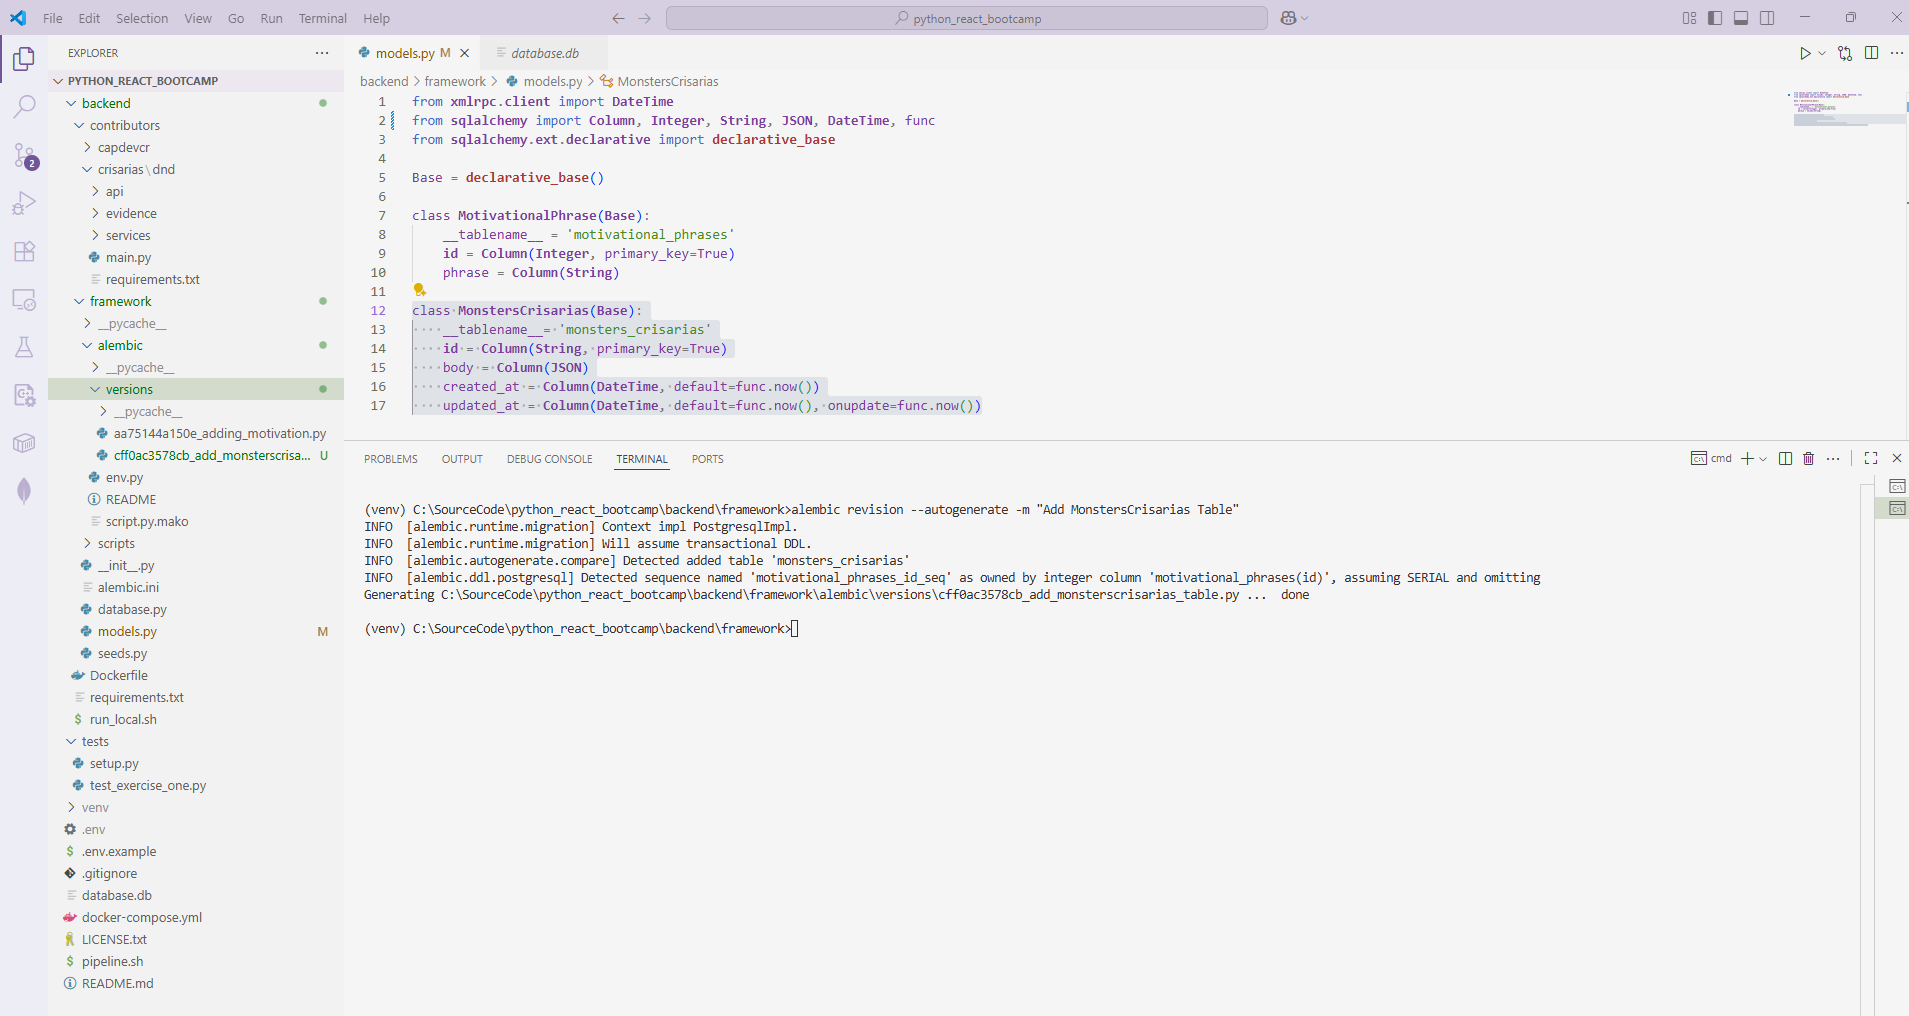
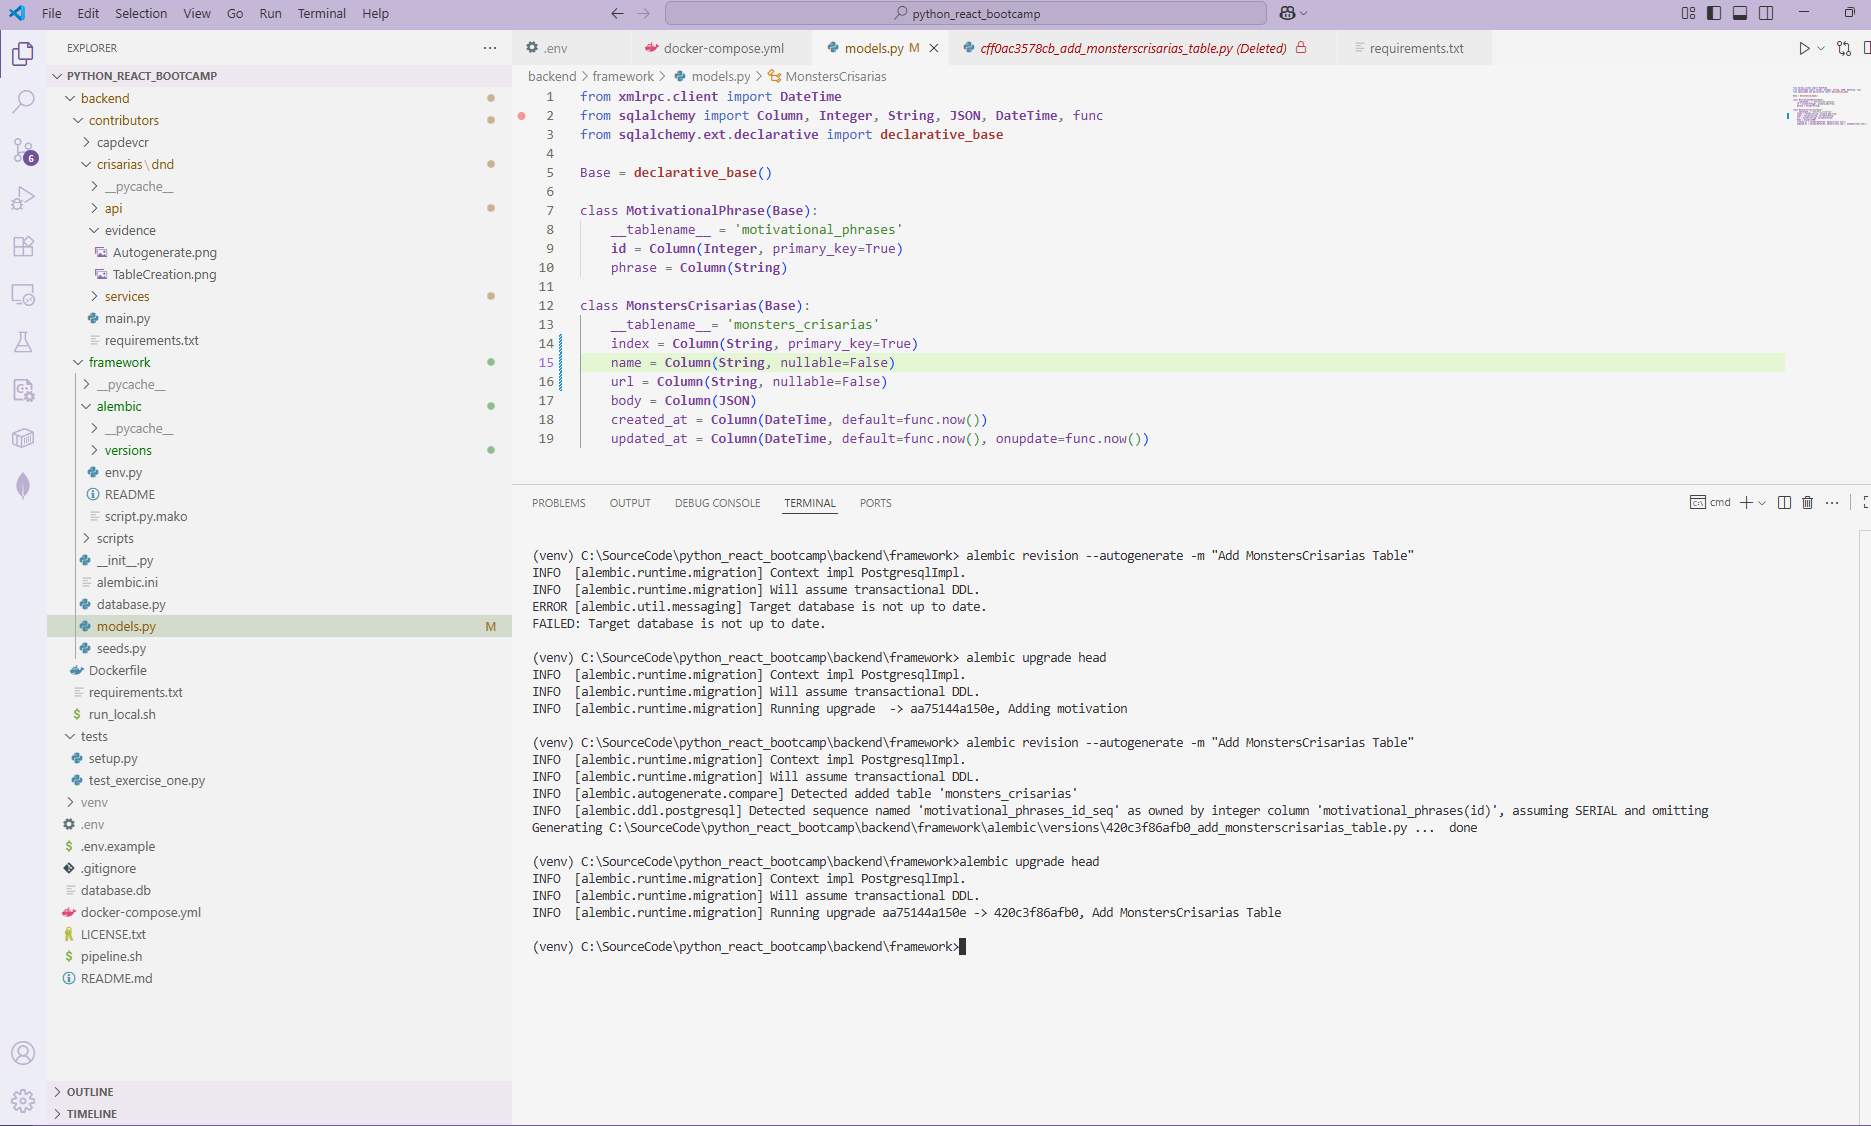
Add migration file with new schema

Changed region(s): [[0.0, 0.0, 1.0, 1.0], [0.868, 0.4272, 1.0, 0.5187], [0.992, 0.9764, 1.0, 1.0]]

diff --git a/backend/contributors/crisarias/dnd/services/caching.py b/backend/contributors/crisarias/dnd/services/caching.py
@@ -10,9 +10,9 @@ def insertCachedResources(model, resources):
     try:
         session = get_session()
         # Get all existing ids in one query for efficiency
-        resource_ids = [resource["id"] for resource in resources]
-        existing_ids = set(r[0] for r in session.query(model.id).filter(model.id.in_(resource_ids)).all())
-        new_resources = [resource for resource in resources if resource["id"] not in existing_ids]
+        resource_ids = [resource["index"] for resource in resources]
+        existing_ids = set(r[0] for r in session.query(model.index).filter(model.index.in_(resource_ids)).all())
+        new_resources = [resource for resource in resources if resource["index"] not in existing_ids]
         for resource in new_resources:
             session.add(model(**resource))
         session.commit()
@@ -23,38 +23,38 @@ def insertCachedResources(model, resources):
 def getCachedResources(model):
     try:
         session = get_session()
-        resources = session.query(model.id).all()
+        resources = session.query(model.index, model.name, model.url).all()
         logger.info(f"Retrieved {len(resources)} cached resources for model {model.__name__}")
-        # Return only id and empty body
-        return [{"id": r[0], "body": {}} for r in resources]
+        # Return only index and empty body
+        return resources
     except Exception as e:
         logger.error(f"Error retrieving cached resources for model {model.__name__}: {e}")
 
-def insertCachedResource(model, id, body):
+def upsertCachedResource(model, index, resource):
     try:
         session = get_session()
-        resource = session.query(model).filter(model.id == id).first()
+        resource = session.query(model).filter(model.index == index).first()
         if resource:
             # Update the body with the provided body dict
-            resource.body = body
-            logger.info(f"Updated cached resource for model {model.__name__} with id {id}")
+            resource.body = resource
+            logger.info(f"Updated cached resource for model {model.__name__} with index {index}")
         else:
             # Insert new resource
-            resource = model(id=id, body=body)
+            resource = model(index=resource.index, name=resource.name, url=resource.url, body=resource)
             session.add(resource)
-            logger.info(f"Inserted cached resource for model {model.__name__} with id {id}")
+            logger.info(f"Inserted cached resource for model {model.__name__} with index {index}")
         session.commit()
     except Exception as e:
-        logger.error(f"Error inserting cached resource for model {model.__name__} with id {id}: {e}")
+        logger.error(f"Error inserting cached resource for model {model.__name__} with index {index}: {e}")
 
-def getCachedResourceById(model, id):
+def getCachedResourceByIndex(model, index):
     try:
         session = get_session()
-        resource = session.query(model).filter(model.id == id).first()
+        resource = session.query(model.body).filter(model.index == index).first()
         if resource:
-            logger.info(f"Retrieved cached resource for model {model.__name__} with id {id}")
+            logger.info(f"Retrieved cached resource for model {model.__name__} with index {index}")
         else:
-            logger.warning(f"Cache miss for model {model.__name__} with id {id}")
+            logger.warning(f"Cache miss for model {model.__name__} with index {index}")
         return resource
     except Exception as e:
-        logger.error(f"Error retrieving cached resource for model {model.__name__} with id {id}: {e}")
+        logger.error(f"Error retrieving cached resource for model {model.__name__} with index {index}: {e}")

diff --git a/backend/contributors/crisarias/dnd/api/monsters/schemas.py b/backend/contributors/crisarias/dnd/api/monsters/schemas.py
@@ -1,31 +1,36 @@
+from services.telemetry import setupLogger
 from marshmallow import Schema, fields, ValidationError, validates
 
+logger = setupLogger()
+
 class MonstersCrisariasSchema(Schema):
-    id = fields.Str(required=True)
-    body = fields.Dict(required=True)
+    index = fields.Str(required=True)
+    name = fields.Str(required=True)
+    url = fields.Str(required=True)
 
-    @validates('id')
-    def validate_id(self, value):
-        if not value.strip():
-            raise ValidationError("ID must not be empty or whitespace.")
+    # @validates('id')
+    # def validate_id(self, value):
+    #     if not value.strip():
+    #         raise ValidationError("ID must not be empty or whitespace.")
 
-    @validates('body')
-    def validate_body(self, value):
-        if not isinstance(value, dict):
-            raise ValidationError("Body must be a valid JSON object.")
+    # @validates('body')
+    # def validate_body(self, value):
+    #     if not isinstance(value, dict):
+    #         raise ValidationError("Body must be a valid JSON object.")
         
 class ListMonstersSchema(Schema):
     resource = fields.Str(required=True)
 
-    @validates('resource')
-    def validate_resource(self, value):
-        if value != "monsters":
-            raise ValidationError("Resource type not supportted.")
+    # @validates('resource')
+    # def validate_resource(self, value):
+    #     logger.info(f"Validating resource: {value}")
+    #     if value != "monsters":
+    #         raise ValidationError("Resource type not supportted.")
         
 class GetMonsterSchema(Schema):
-    monster_index = fields.Int(required=True)
+    monster_index = fields.Str(required=True)
 
-    @validates('monster_index')
-    def validate_index(self, value):
-        if value < 0:
-            raise ValidationError("monster_index must be a non-negative integer")
+    # @validates('monster_index')
+    # def validate_index(self, value):
+    #     if value < 0:
+    #         raise ValidationError("monster_index must be a non-negative integer")

diff --git a/backend/contributors/crisarias/dnd/api/monsters/api.py b/backend/contributors/crisarias/dnd/api/monsters/api.py
@@ -1,6 +1,6 @@
 from services.telemetry import setupLogger
 from marshmallow import ValidationError
-from .schemas import GetMonsterSchema, ListMonstersSchema
+from .schemas import GetMonsterSchema, ListMonstersSchema, MonstersCrisariasSchema
 import os
 import sys
 sys.path.append(os.path.abspath(os.path.join(os.path.dirname(__file__), '../../../../../framework')))
@@ -17,7 +17,7 @@ def getMonster(request):
         validated = GetMonsterSchema().load(data)
         monster_id = validated["monster_index"]
         cachingResponse = getCachedResourceById(MonstersCrisarias, monster_id)
-        if cachingResponse is None or getattr(cachingResponse, "body", {}) == {}:
+        if cachingResponse is None or cachingResponse == {}:
             logger.info(f"Cache miss for monster_id {monster_id}")
             data, code = getMonsterById(monster_id)
             if code != 200:
@@ -38,10 +38,11 @@ def getMonster(request):
 def listMonsters(request):
     try:
         data = request.get_json()
+        logger.info(f"Received listMonsters request data: {data}")
         ListMonstersSchema().load(data)
         cachingResponse = getCachedResources(MonstersCrisarias)
-        if cachingResponse is None or getattr(cachingResponse, "body", {}) == {}:
-            logger.info(f"Cache miss for monster_id {monster_id}")
+        if cachingResponse is None or len(cachingResponse) == 0:
+            logger.info(f"Cache miss for monsters list")
             data, code = getMonsters()
             if code != 200:
                 raise ConnectionError(f"Cannot fetch monsters upstream service unavailable")

diff --git a/backend/framework/alembic/versions/420c3f86afb0_add_monsterscrisarias_table.py b/backend/framework/alembic/versions/420c3f86afb0_add_monsterscrisarias_table.py
@@ -1,8 +1,8 @@
 """Add MonstersCrisarias Table
 
-Revision ID: cff0ac3578cb
+Revision ID: 420c3f86afb0
 Revises: aa75144a150e
-Create Date: 2025-08-25 15:20:28.769803
+Create Date: 2025-08-25 17:41:23.264190
 
 """
 from typing import Sequence, Union
@@ -12,7 +12,7 @@ import sqlalchemy as sa
 
 
 # revision identifiers, used by Alembic.
-revision: str = 'cff0ac3578cb'
+revision: str = '420c3f86afb0'
 down_revision: Union[str, Sequence[str], None] = 'aa75144a150e'
 branch_labels: Union[str, Sequence[str], None] = None
 depends_on: Union[str, Sequence[str], None] = None
@@ -22,11 +22,13 @@ def upgrade() -> None:
     """Upgrade schema."""
     # ### commands auto generated by Alembic - please adjust! ###
     op.create_table('monsters_crisarias',
-    sa.Column('id', sa.String(), nullable=False),
+    sa.Column('index', sa.String(), nullable=False),
+    sa.Column('name', sa.String(), nullable=False),
+    sa.Column('url', sa.String(), nullable=False),
     sa.Column('body', sa.JSON(), nullable=True),
     sa.Column('created_at', sa.DateTime(), nullable=True),
     sa.Column('updated_at', sa.DateTime(), nullable=True),
-    sa.PrimaryKeyConstraint('id')
+    sa.PrimaryKeyConstraint('index')
     )
     # ### end Alembic commands ###
 

diff --git a/backend/framework/models.py b/backend/framework/models.py
@@ -11,7 +11,9 @@ class MotivationalPhrase(Base):
 
 class MonstersCrisarias(Base):
     __tablename__= 'monsters_crisarias'
-    id = Column(String, primary_key=True)
+    index = Column(String, primary_key=True)
+    name = Column(String, nullable=False)
+    url = Column(String, nullable=False)
     body = Column(JSON)
     created_at = Column(DateTime, default=func.now())
     updated_at = Column(DateTime, default=func.now(), onupdate=func.now())
